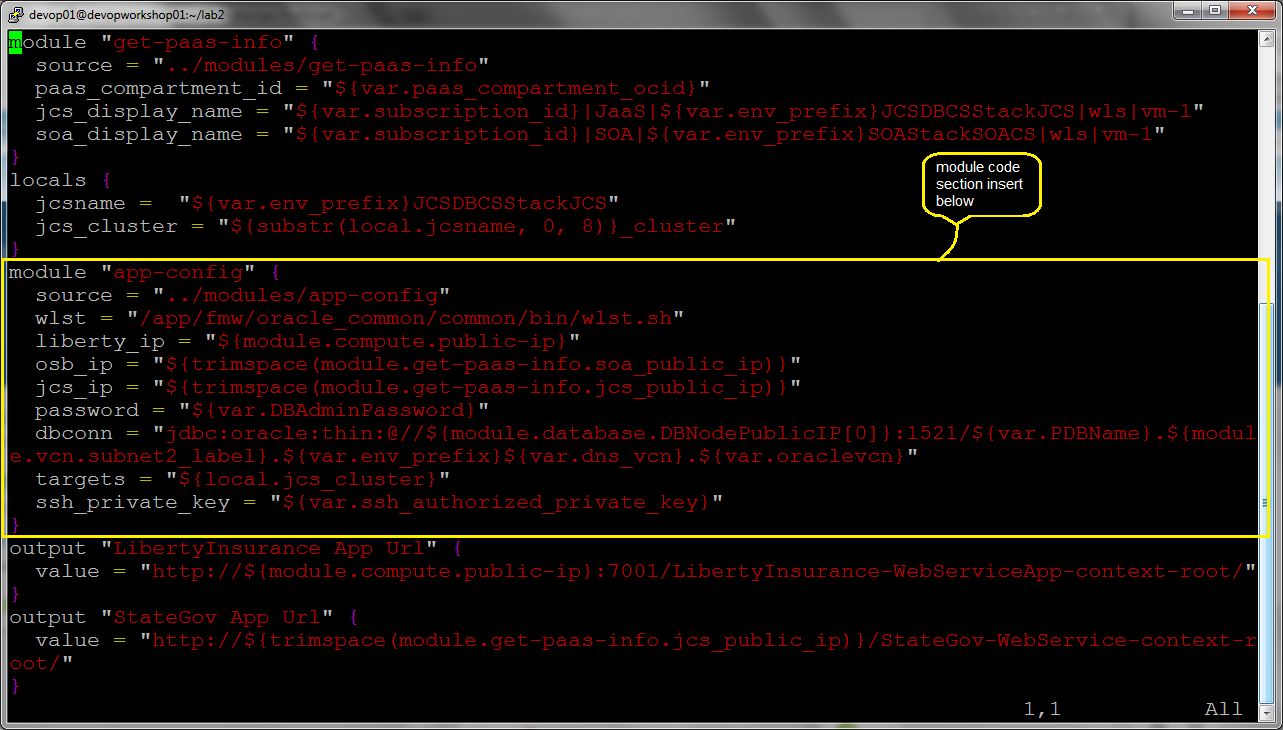
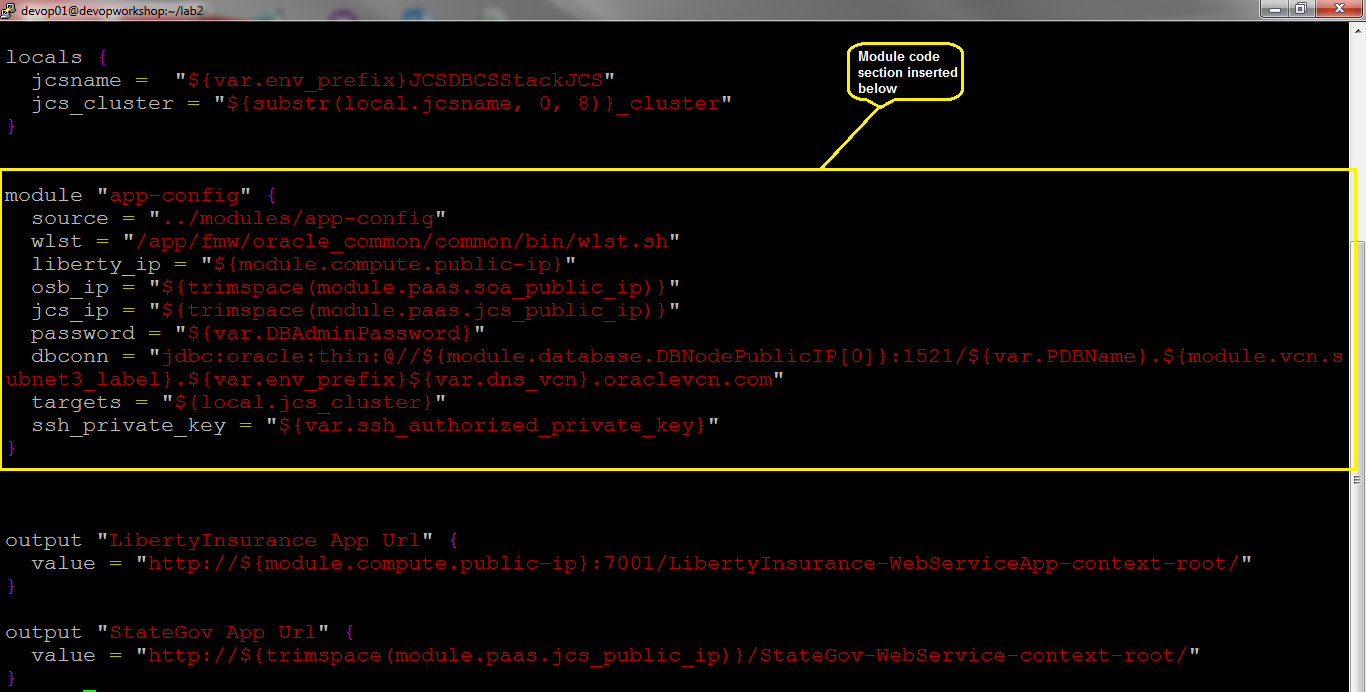
update lab instructions and screen shots

diff --git a/workshops/environment-automation/LabGuide201.md b/workshops/environment-automation/LabGuide201.md
@@ -72,10 +72,10 @@ Leveraging this environment, you will configure applications to run in each of t
       source = "../modules/app-config"
       wlst = "/app/fmw/oracle_common/common/bin/wlst.sh"
       liberty_ip = "${module.compute.public-ip}"
-      osb_ip = "${trimspace(module.get-paas-info.soa_public_ip)}"
-      jcs_ip = "${trimspace(module.get-paas-info.jcs_public_ip)}"
+      osb_ip = "${trimspace(module.paas.soa_public_ip)}"
+      jcs_ip = "${trimspace(module.paas.jcs_public_ip)}"
       password = "${var.DBAdminPassword}"
-      dbconn="jdbc:oracle:thin:@//${module.database.DBNodePublicIP[0]}:1521/${var.PDBName}.${module.vcn.subnet2_label}.${var.env_prefix}${var.dns_vcn}.oraclevcn.com"
+      dbconn="jdbc:oracle:thin:@//${module.database.DBNodePublicIP[0]}:1521/${var.PDBName}.${module.vcn.subnet3_label}.${var.env_prefix}${var.dns_vcn}.oraclevcn.com"
       targets = "${local.jcs_cluster}"
       ssh_private_key = "${var.ssh_authorized_private_key}"
   }
